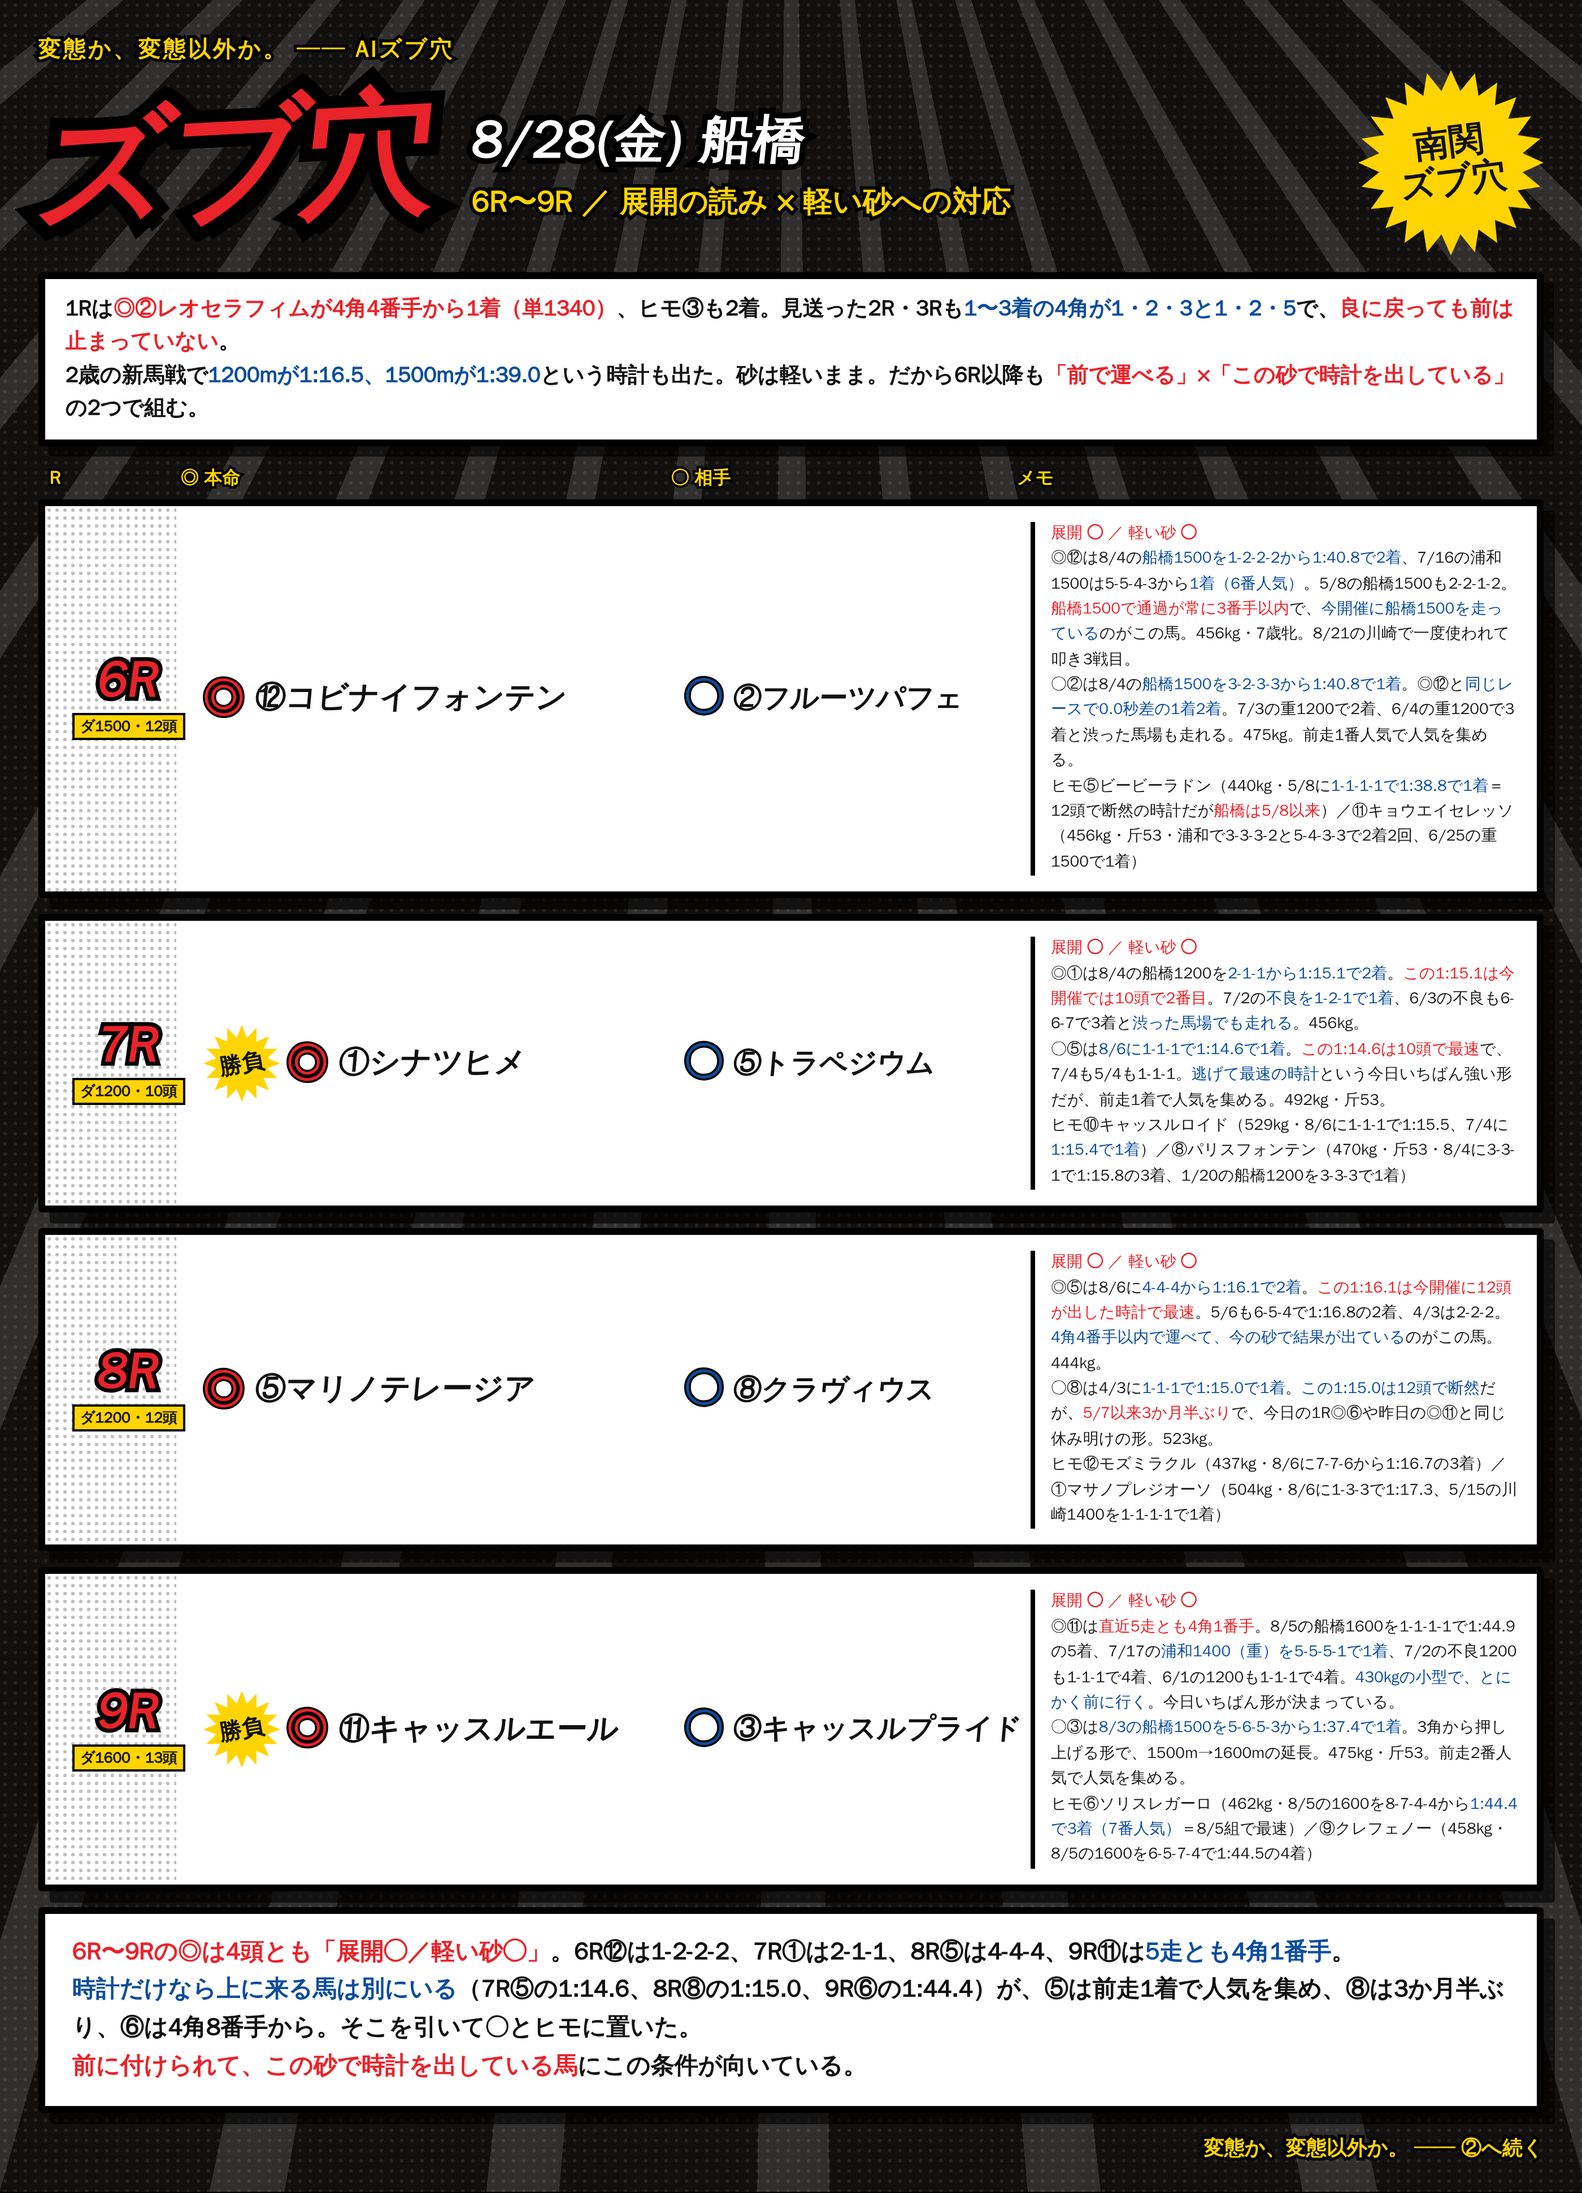
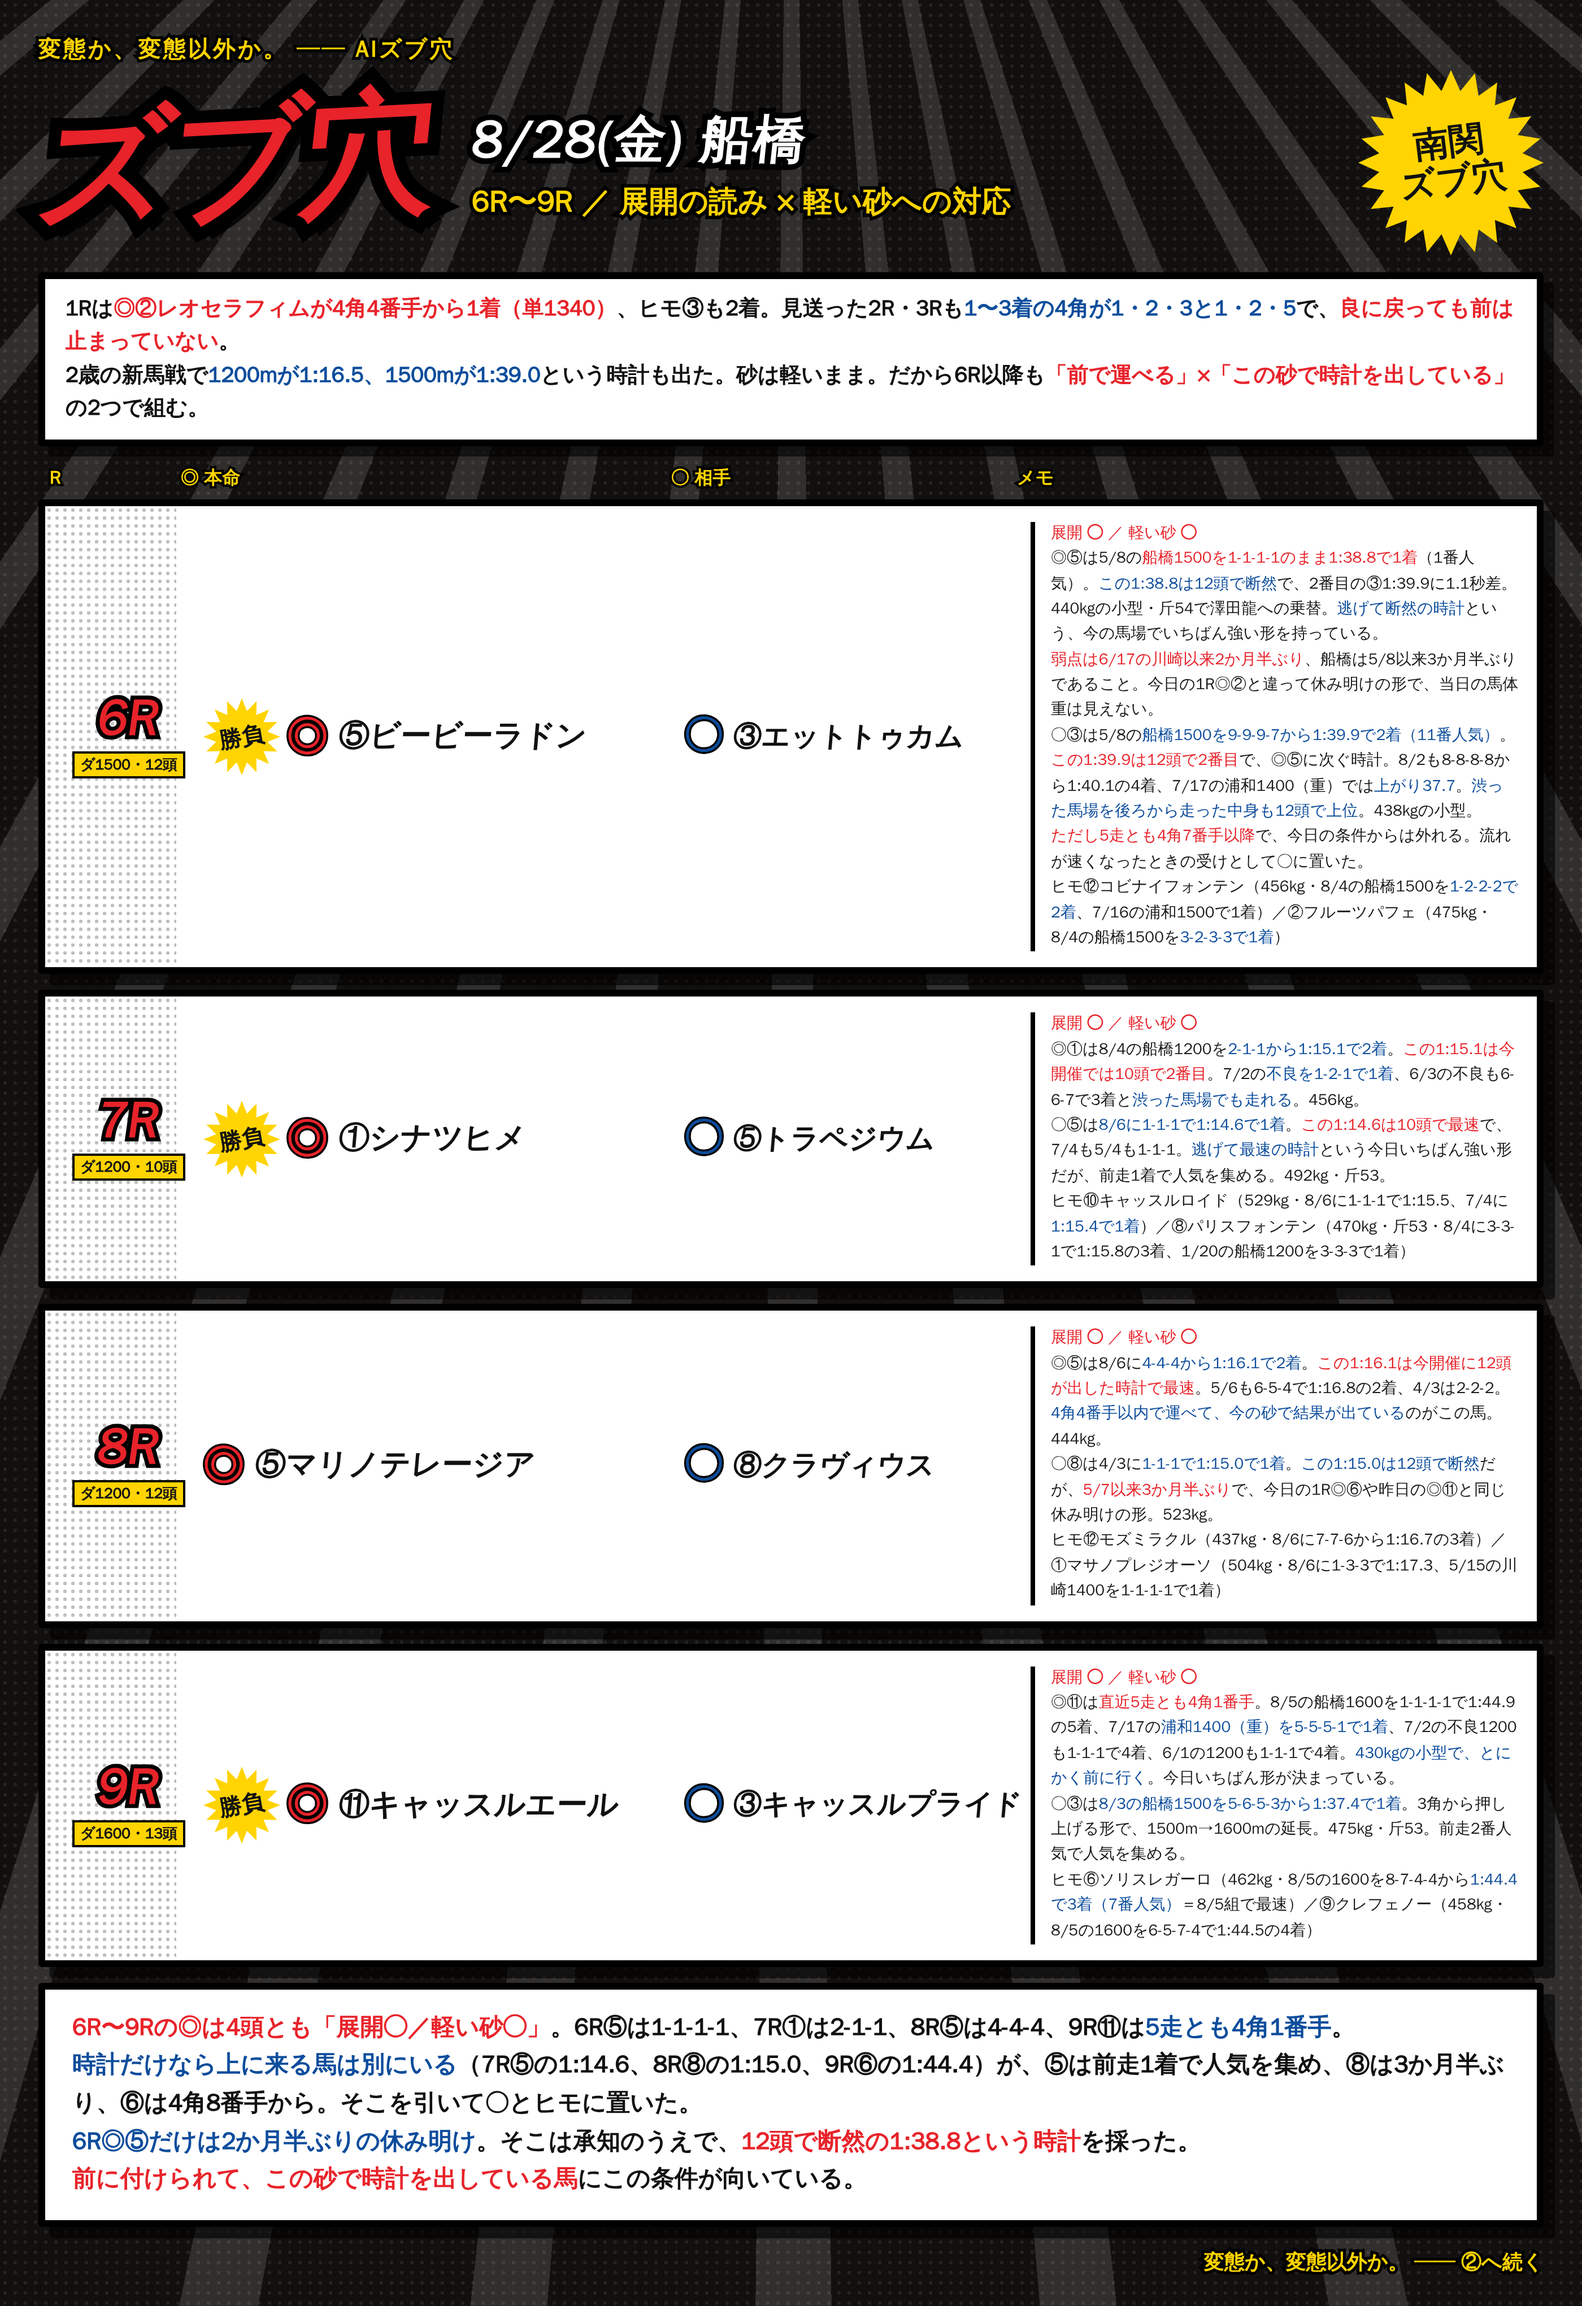
8/28 船橋 6R の印を差し替え（◎⑤ビービーラドン／○③エットトゥカム）
- 6R を勝負印に変更。5/8 の船橋1500 を 1-1-1-1 で 1:38.8（12頭で断然）の逃げ切り実績を採用
- ○③エットトゥカムは同レース 9-9-9-7 から 1:39.9 で2着（12頭で2番目の時計）、
  渋った馬場を後ろから走った中身も上位だが5走とも4角7番手以降のため相手評価
- ヒモを⑫コビナイフォンテン／②フルーツパフェへ
- 締め文言に「6R◎⑤は2か月半ぶりの休み明け」を追記
- README と画像も同内容に更新

Claude-Session: https://claude.ai/code/session_01RoHscZkr96FNaxQWvUqgEw

diff --git a/notes/live/2026-08-28/funabashi_6_9.html b/notes/live/2026-08-28/funabashi_6_9.html
@@ -84,9 +84,9 @@
 
   <div class="row"><div class="corner"></div>
     <div class="rN"><div class="n">6R</div><div class="d">ダ1500・12頭</div></div>
-    <div class="hm"><span class="mk">◎</span><span class="nm">⑫コビナイフォンテン</span></div>
-    <div class="at"><span class="mk2">○</span><span class="nm2">②フルーツパフェ</span></div>
-    <div class="memo"><b class='r'>展開 ◯ ／ 軽い砂 ◯</b><br>◎⑫は8/4の<b>船橋1500を1-2-2-2から1:40.8で2着</b>、7/16の浦和1500は5-5-4-3から<b>1着（6番人気）</b>。5/8の船橋1500も2-2-1-2。<b class='r'>船橋1500で通過が常に3番手以内</b>で、<b>今開催に船橋1500を走っている</b>のがこの馬。456kg・7歳牝。8/21の川崎で一度使われて叩き3戦目。<br>○②は8/4の<b>船橋1500を3-2-3-3から1:40.8で1着</b>。◎⑫と<b>同じレースで0.0秒差の1着2着</b>。7/3の重1200で2着、6/4の重1200で3着と渋った馬場も走れる。475kg。前走1番人気で人気を集める。<br>ヒモ⑤ビービーラドン（440kg・5/8に<b>1-1-1-1で1:38.8で1着</b>＝12頭で断然の時計だが<b class='r'>船橋は5/8以来</b>）／⑪キョウエイセレッソ（456kg・斤53・浦和で3-3-3-2と5-4-3-3で2着2回、6/25の重1500で1着）</div>
+    <div class="hm"><div class="sb"><span>勝負</span></div><span class="mk">◎</span><span class="nm">⑤ビービーラドン</span></div>
+    <div class="at"><span class="mk2">○</span><span class="nm2">③エットトゥカム</span></div>
+    <div class="memo"><b class='r'>展開 ◯ ／ 軽い砂 ◯</b><br>◎⑤は5/8の<b class='r'>船橋1500を1-1-1-1のまま1:38.8で1着</b>（1番人気）。<b>この1:38.8は12頭で断然</b>で、2番目の③1:39.9に1.1秒差。440kgの小型・斤54で澤田龍への乗替。<b>逃げて断然の時計</b>という、今の馬場でいちばん強い形を持っている。<br><b class='r'>弱点は6/17の川崎以来2か月半ぶり</b>、船橋は5/8以来3か月半ぶりであること。今日の1R◎②と違って休み明けの形で、当日の馬体重は見えない。<br>○③は5/8の<b>船橋1500を9-9-9-7から1:39.9で2着（11番人気）</b>。<b class='r'>この1:39.9は12頭で2番目</b>で、◎⑤に次ぐ時計。8/2も8-8-8-8から1:40.1の4着、7/17の浦和1400（重）では<b>上がり37.7</b>。<b>渋った馬場を後ろから走った中身も12頭で上位</b>。438kgの小型。<br><b class='r'>ただし5走とも4角7番手以降</b>で、今日の条件からは外れる。流れが速くなったときの受けとして○に置いた。<br>ヒモ⑫コビナイフォンテン（456kg・8/4の船橋1500を<b>1-2-2-2で2着</b>、7/16の浦和1500で1着）／②フルーツパフェ（475kg・8/4の船橋1500を<b>3-2-3-3で1着</b>）</div>
   </div>
 
   <div class="row"><div class="corner"></div>
@@ -109,6 +109,6 @@
     <div class="at"><span class="mk2">○</span><span class="nm2">③キャッスルプライド</span></div>
     <div class="memo"><b class='r'>展開 ◯ ／ 軽い砂 ◯</b><br>◎⑪は<b class='r'>直近5走とも4角1番手</b>。8/5の船橋1600を1-1-1-1で1:44.9の5着、7/17の<b>浦和1400（重）を5-5-5-1で1着</b>、7/2の不良1200も1-1-1で4着、6/1の1200も1-1-1で4着。<b>430kgの小型で、とにかく前に行く</b>。今日いちばん形が決まっている。<br>○③は<b>8/3の船橋1500を5-6-5-3から1:37.4で1着</b>。3角から押し上げる形で、1500m→1600mの延長。475kg・斤53。前走2番人気で人気を集める。<br>ヒモ⑥ソリスレガーロ（462kg・8/5の1600を8-7-4-4から<b>1:44.4で3着（7番人気）</b>＝8/5組で最速）／⑨クレフェノー（458kg・8/5の1600を6-5-7-4で1:44.5の4着）</div>
   </div>
-<div class="foot"><span class="r">6R〜9Rの◎は4頭とも「展開◯／軽い砂◯」</span>。6R⑫は1-2-2-2、7R①は2-1-1、8R⑤は4-4-4、9R⑪は<span class="b">5走とも4角1番手</span>。<br><span class="b">時計だけなら上に来る馬は別にいる</span>（7R⑤の1:14.6、8R⑧の1:15.0、9R⑥の1:44.4）が、⑤は前走1着で人気を集め、⑧は3か月半ぶり、⑥は4角8番手から。そこを引いて○とヒモに置いた。<br><span class="r">前に付けられて、この砂で時計を出している馬</span>にこの条件が向いている。</div>
+<div class="foot"><span class="r">6R〜9Rの◎は4頭とも「展開◯／軽い砂◯」</span>。6R⑤は1-1-1-1、7R①は2-1-1、8R⑤は4-4-4、9R⑪は<span class="b">5走とも4角1番手</span>。<br><span class="b">時計だけなら上に来る馬は別にいる</span>（7R⑤の1:14.6、8R⑧の1:15.0、9R⑥の1:44.4）が、⑤は前走1着で人気を集め、⑧は3か月半ぶり、⑥は4角8番手から。そこを引いて○とヒモに置いた。<br><span class="b">6R◎⑤だけは2か月半ぶりの休み明け</span>。そこは承知のうえで、<span class="r">12頭で断然の1:38.8という時計</span>を採った。<br><span class="r">前に付けられて、この砂で時計を出している馬</span>にこの条件が向いている。</div>
 <div class="sig">変態か、変態以外か。 ── ②へ続く</div>
 </div></div></body></html>

diff --git a/notes/live/2026-08-28/README.md b/notes/live/2026-08-28/README.md
@@ -84,7 +84,7 @@
 
 | R | 条件 | ◎ 本命 | ○ 相手 | ヒモ | 展開／軽い砂 |
 |---|---|---|---|---|---|
-| 6R | ダ1500・12頭 | ⑫コビナイフォンテン | ②フルーツパフェ | ⑤⑪ | ◯／◯ |
+| 6R 勝負 | ダ1500・12頭 | ⑤ビービーラドン | ③エットトゥカム | ⑫② | ◯／◯ |
 | 7R 勝負 | ダ1200・10頭 | ①シナツヒメ | ⑤トラペジウム | ⑩⑧ | ◯／◯ |
 | 8R | ダ1200・12頭 | ⑤マリノテレージア | ⑧クラヴィウス | ⑫① | ◯／◯ |
 | 9R 勝負 | ダ1600・13頭 | ⑪キャッスルエール | ③キャッスルプライド | ⑥⑨ | ◯／◯ |
@@ -94,8 +94,14 @@
 
 ## 各鞍のメモ
 
-- **6R ◎⑫コビナイフォンテン**（456kg）… 8/4の船橋1500を**1-2-2-2で1:40.8の2着**、7/16の浦和1500は**1着（6番人気）**。
-  **船橋1500で通過が常に3番手以内**。○②フルーツパフェは**同じ8/4のレースを3-2-3-3で1着**（0.0秒差の1着2着）
+- **6R ◎⑤ビービーラドン**（440kg・斤54・澤田龍への乗替）… 5/8の船橋1500を**1-1-1-1のまま1:38.8で1着**（1番人気）。
+  **この1:38.8は12頭で断然**で、2番目の③1:39.9に1.1秒差。**逃げて断然の時計**という今の馬場でいちばん強い形。
+  弱点は**6/17の川崎以来2か月半ぶり**（船橋は5/8以来3か月半ぶり）。
+  ○③エットトゥカムは5/8の船橋1500を**9-9-9-7から1:39.9で2着（11番人気）**＝12頭で2番目の時計。
+  8/2も8-8-8-8から1:40.1の4着、7/17の浦和1400（重）で上がり37.7。**渋った馬場を後ろから走った中身も12頭で上位**。
+  ただし**5走とも4角7番手以降**で今日の条件からは外れるため、流れが速くなったときの受けとして○。
+  ヒモ⑫コビナイフォンテン（456kg・8/4の船橋1500を1-2-2-2で2着、7/16の浦和1500で1着）／
+  ②フルーツパフェ（475kg・同じ8/4のレースを3-2-3-3で1着）
 - **7R ◎①シナツヒメ**（456kg）… 8/4に**2-1-1から1:15.1で2着**（今開催で2番目の時計）、7/2の**不良を1-2-1で1着**。
   ○⑤トラペジウムは**8/6に1-1-1で1:14.6で1着**＝10頭で最速だが前走1着で人気側
 - **8R ◎⑤マリノテレージア**（444kg）… 8/6に**4-4-4から1:16.1で2着**＝**今開催に12頭が出した時計で最速**。
@@ -113,3 +119,5 @@
 
 時計だけなら上に来る馬は別にいる（7R⑤の1:14.6、8R⑧の1:15.0、9R⑥の1:44.4、10R⑭の1:00.9、11R⑪の1:40.9）が、
 ⑤⑭は前走の着順で人気を集め、⑧は3か月半ぶり、⑥は4角8番手から。そこを引いて○とヒモに置いた。
+
+**6R◎⑤だけは2か月半ぶりの休み明け。** そこは承知のうえで、12頭で断然の1:38.8という時計を採った。
